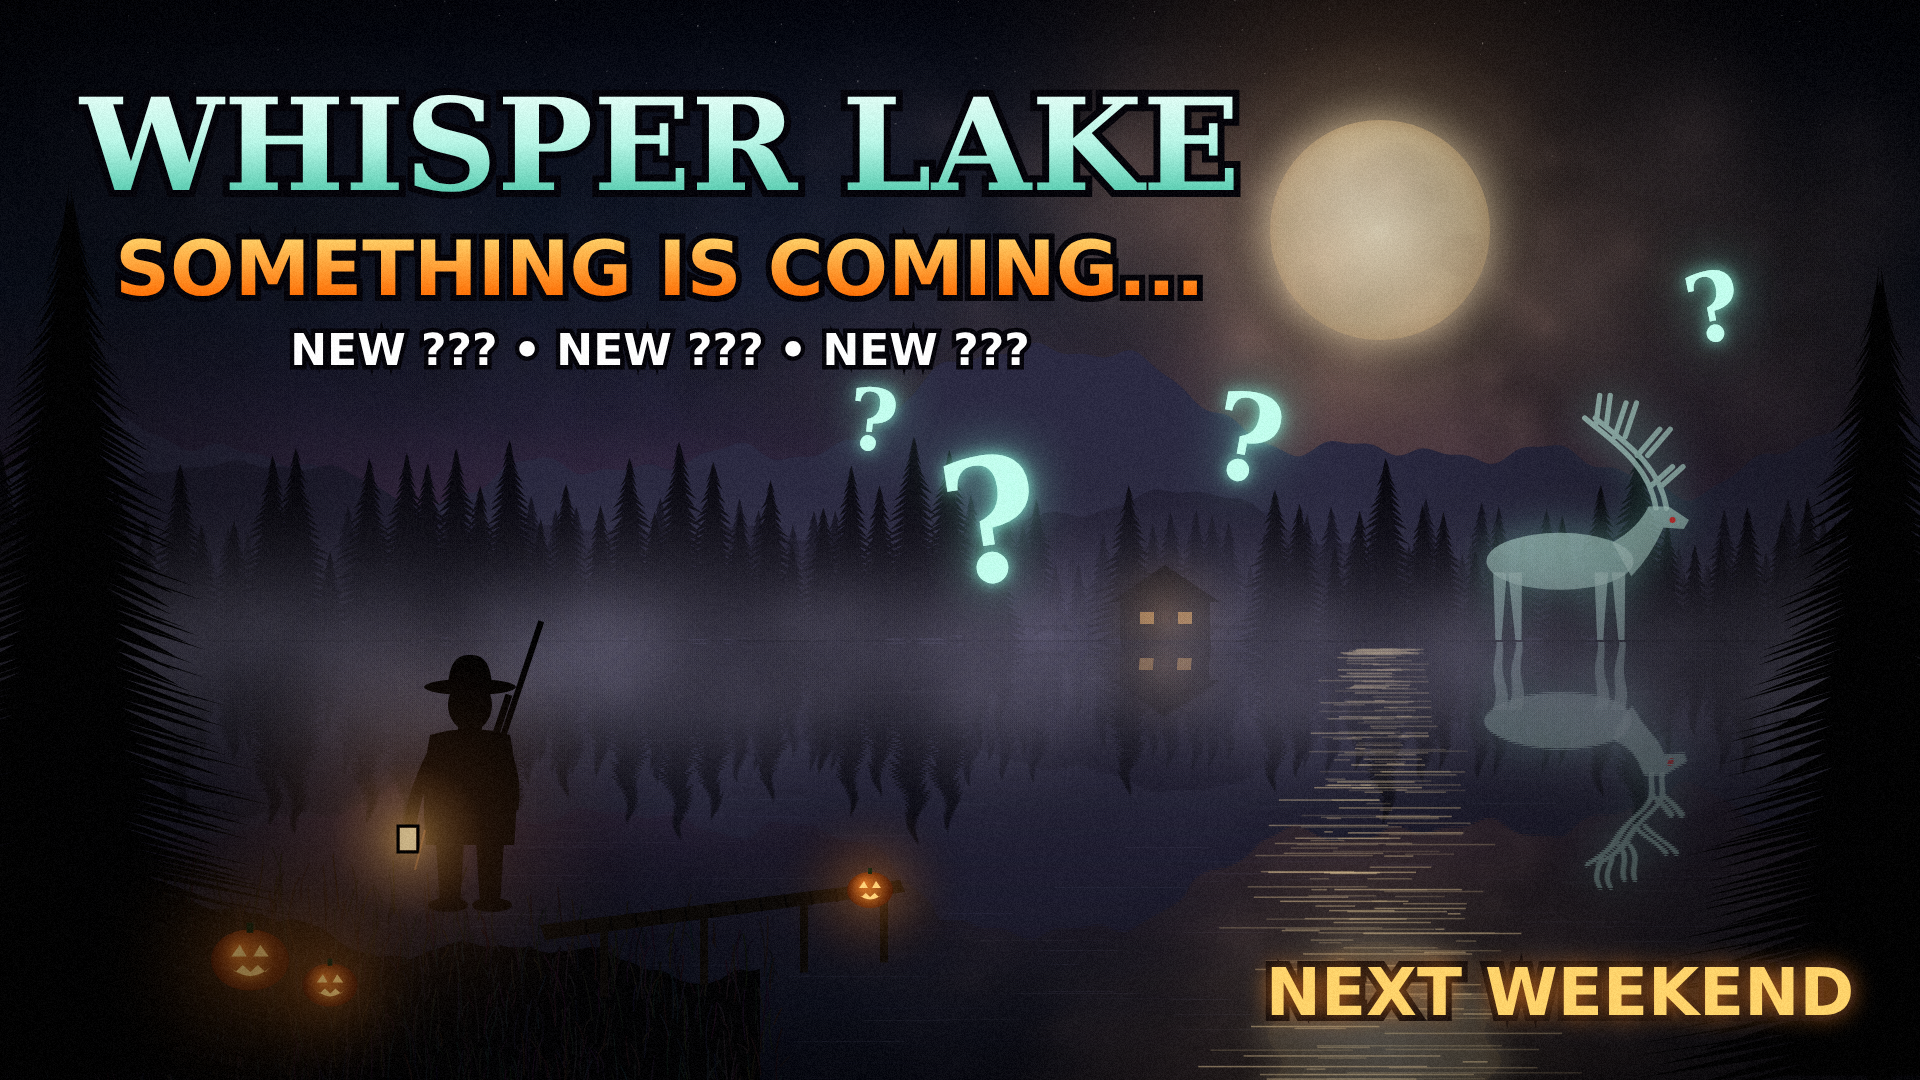
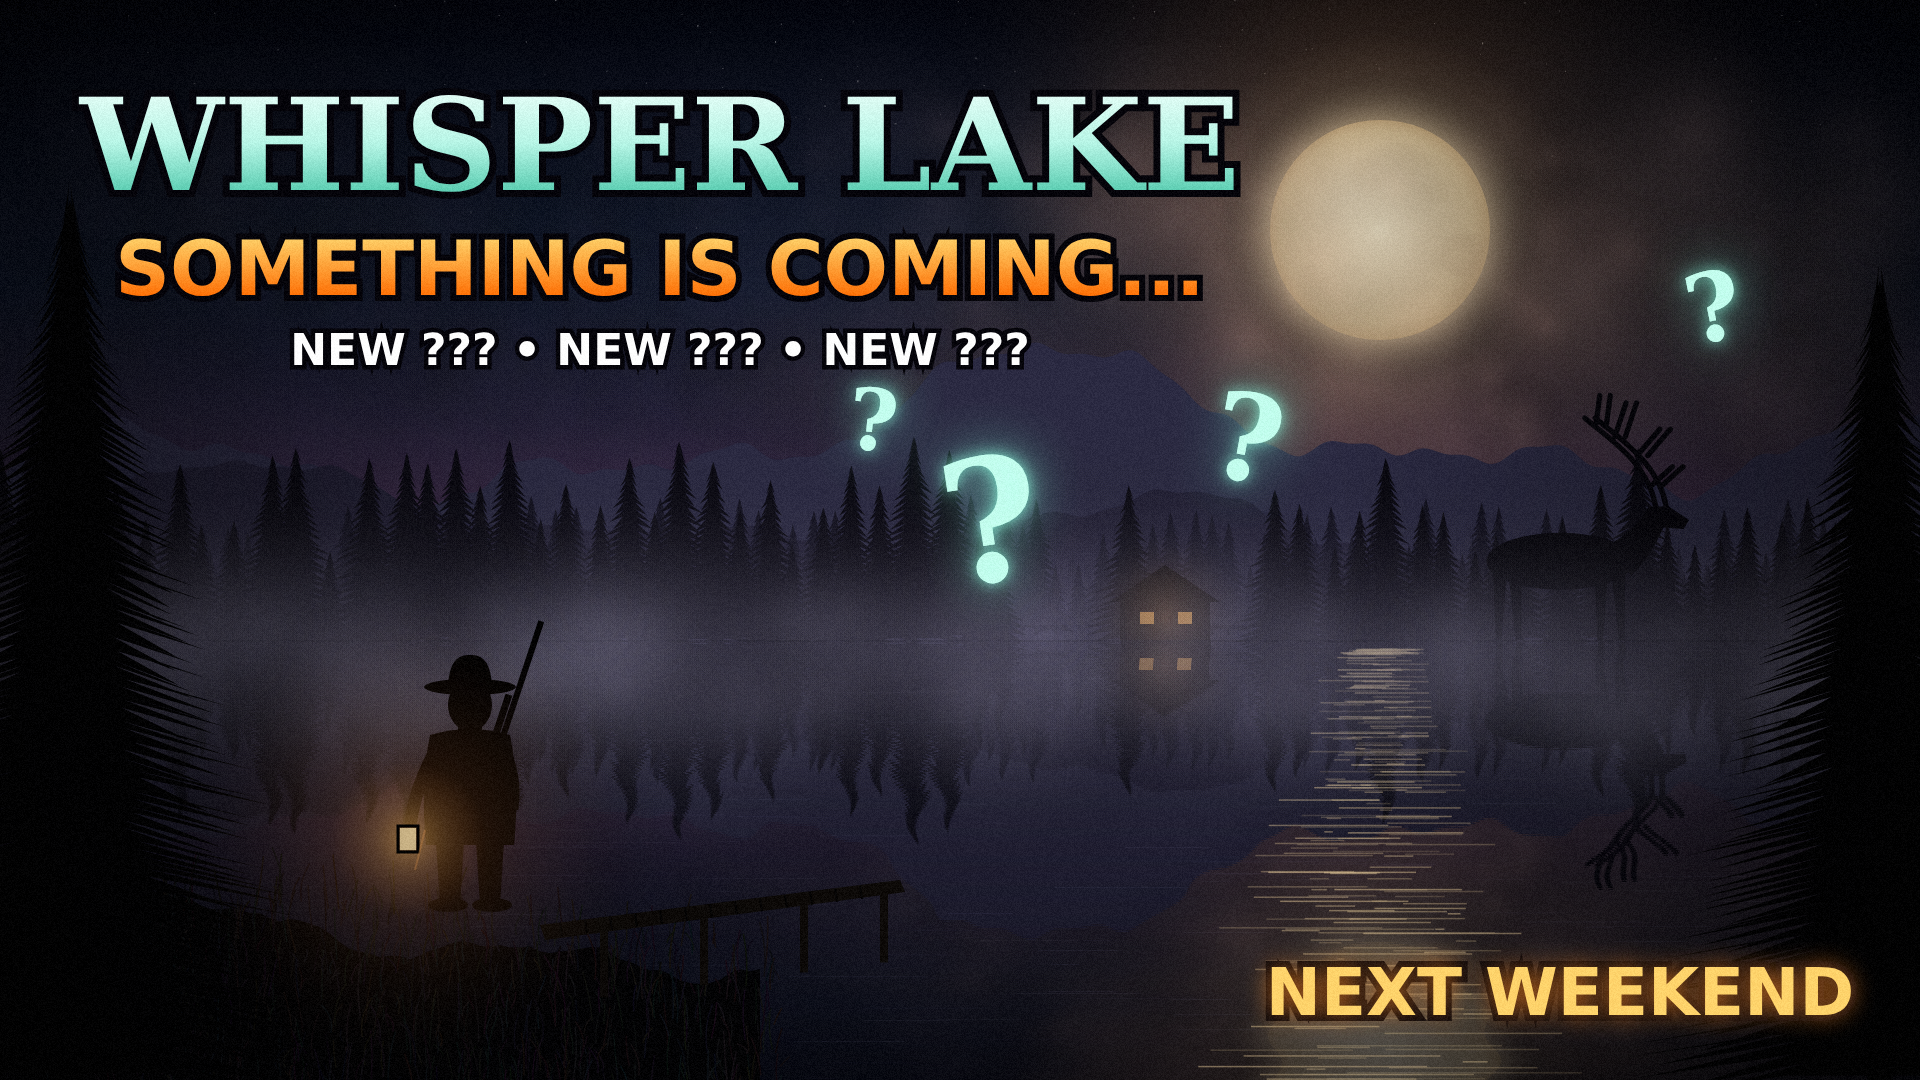
Make Whisper Lake teaser non-Halloween
Claude-Session: https://claude.ai/code/session_01Xugac75VTjELJoPpi9dzQJ

Changed region(s): [[0.75, 0.3667, 0.875, 0.825], [0.0938, 0.825, 0.2188, 0.9778], [0.4062, 0.7639, 0.5, 0.8861]]

diff --git a/thumbnails/whisper-lake-teaser.html b/thumbnails/whisper-lake-teaser.html
@@ -48,9 +48,7 @@ t.lineWidth=7;t.lineCap='round';t.beginPath();
 for(const d of[0,14]){const bx=128+d,by=-176;t.moveTo(bx,by);t.bezierCurveTo(bx-10,by-60,bx-60,by-90,bx-95,by-120);
  t.moveTo(bx-6,by-30);t.lineTo(bx+22,by-55);t.moveTo(bx-25,by-70);t.lineTo(bx+5,by-105);t.moveTo(bx-55,by-95);t.lineTo(bx-40,by-140);t.moveTo(bx-80,by-112);t.lineTo(bx-75,by-150)}
 t.stroke();t.restore()}
-s.save();s.shadowColor='rgba(140,255,230,.9)';s.shadowBlur=40;s.fillStyle='rgba(190,255,240,.55)';s.strokeStyle='rgba(190,255,240,.6)';elk(s,1560,640,.75);s.restore();
-s.fillStyle='rgba(230,255,250,.35)';s.strokeStyle='rgba(230,255,250,.35)';elk(s,1560,640,.75);
-s.fillStyle='#ff3b3b';s.beginPath();s.arc(1560+150*.75,640-160*.75,3,0,7);s.fill();
+s.fillStyle='#07060c';s.strokeStyle='#07060c';elk(s,1560,640,.75);s.save();s.globalCompositeOperation='source-atop';s.restore();
 x.drawImage(S,0,0);
 // ---------- lake reflection ----------
 g=x.createLinearGradient(0,HZ,0,H);g.addColorStop(0,'#1a1828');g.addColorStop(1,'#030308');x.fillStyle=g;x.fillRect(0,HZ,W,H-HZ);
@@ -77,7 +75,7 @@ function jack(px,py,r){let g2=x.createRadialGradient(px,py,0,px,py,r*5);g2.addCo
  x.fillStyle='#ffd27a';x.shadowColor='#ffae3a';x.shadowBlur=12;x.beginPath();x.moveTo(px-r*.55,py-r*.1);x.lineTo(px-r*.3,py-r*.45);x.lineTo(px-r*.1,py-r*.1);x.moveTo(px+r*.1,py-r*.1);x.lineTo(px+r*.3,py-r*.45);x.lineTo(px+r*.55,py-r*.1);x.fill();
  x.beginPath();x.moveTo(px-r*.65,py+r*.15);for(let k=0;k<=6;k++)x.lineTo(px-r*.65+k*r*.22,py+r*.15+(k%2?r*.2:0));x.quadraticCurveTo(px,py+r*.8,px-r*.65,py+r*.15);x.fill();x.shadowBlur=0;
  x.fillStyle='#1e2a10';x.fillRect(px-r*.1,py-r*1.1,r*.2,r*.3)}
-jack(250,960,34);jack(330,985,24);jack(870,890,20);
+
 // hunter silhouette (from behind) with lantern
 x.save();x.translate(470,905);x.fillStyle='#010102';
 x.beginPath();x.ellipse(0,-200,22,26,0,0,7);x.fill();
